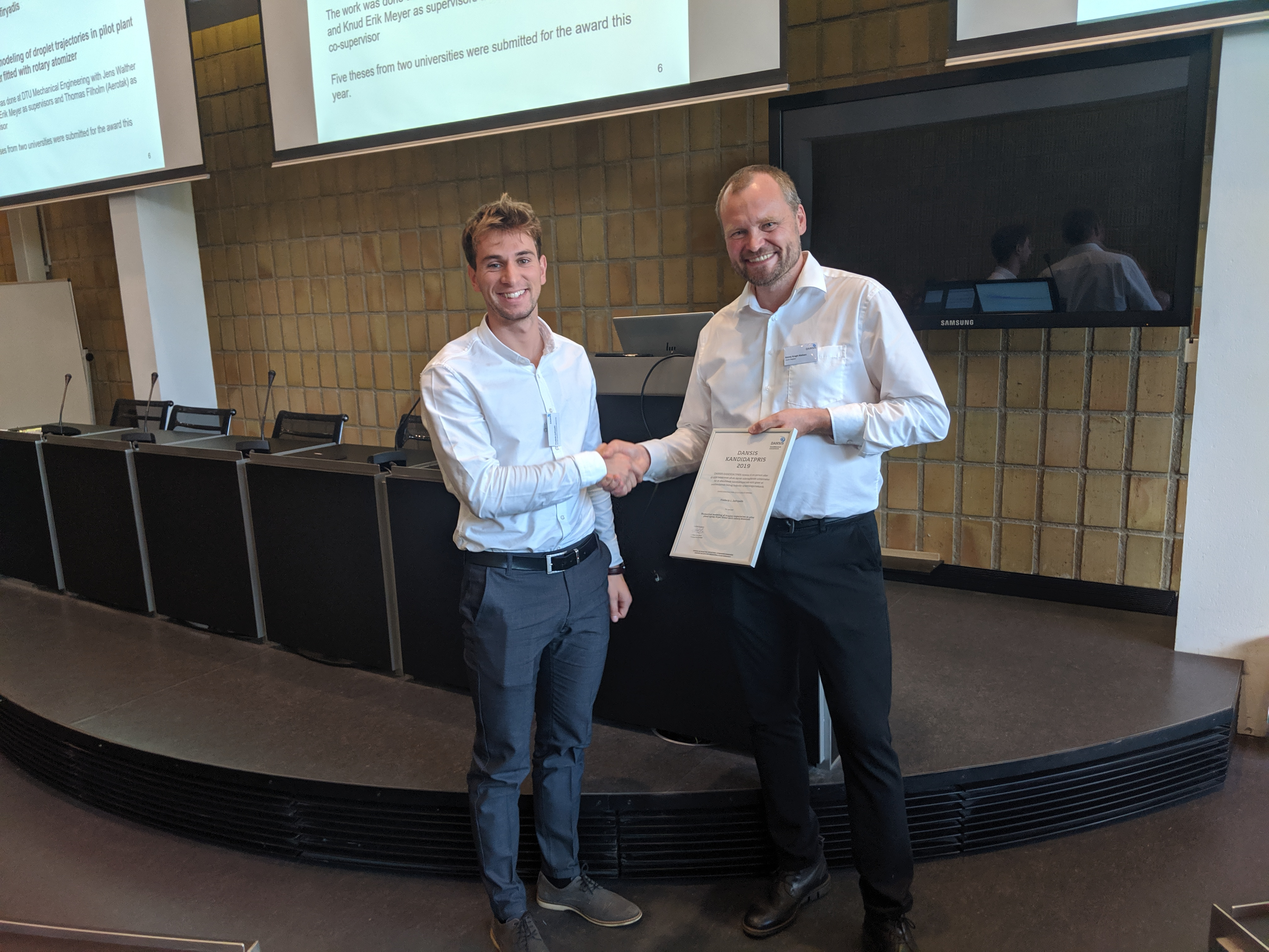
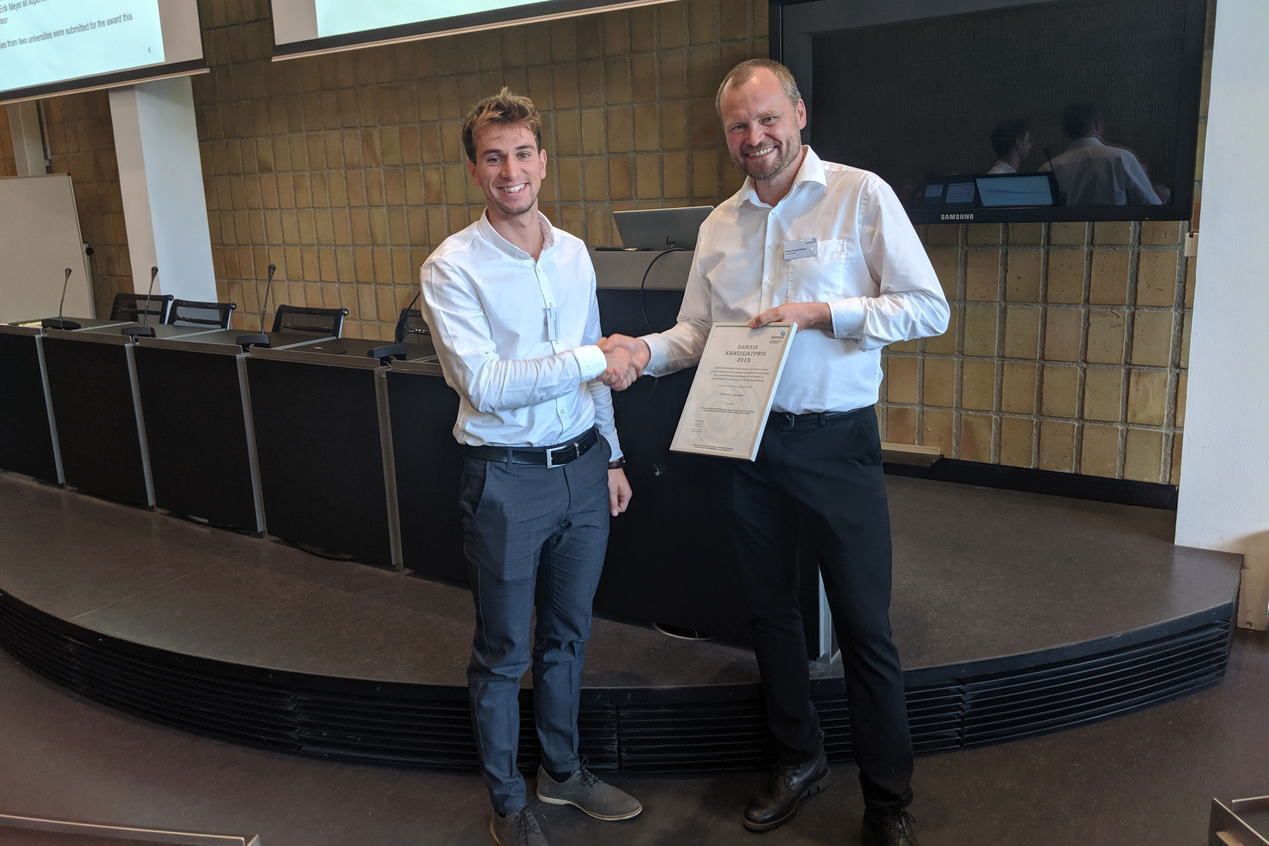
Update

diff --git a/_layouts/newsupdate.html b/_layouts/newsupdate.html
@@ -13,7 +13,7 @@ layout: default
         <h3 class="content">Date:&nbsp;&nbsp;&nbsp;&nbsp;&nbsp;&nbsp;&nbsp;&nbsp;{{ page.date | date: '%d' | plus:'0'}} {{ page.date | date: '%B %Y' }}</h3>
         {% if page.image %}
         <div class="newsupdate-image">
-            <img width="550" alt="{{ page.title }}" class="img-fluid mb-2" src="{{ page.image | relative_url }}" />
+            <img width="600" alt="{{ page.title }}" class="img-fluid mb-2" src="{{ page.image | relative_url }}" />
         </div>
         {% endif %}
         <div class="content">{{content}}</div>

diff --git a/_layouts/home.html b/_layouts/home.html
@@ -31,7 +31,7 @@ bodyClass: "page-home"
         <div class="newsupdate newsupdate-summary newsupdate-summary-large">
             {% if newsupdate.image %}
             <div class="newsupdate-image">
-                <img width="550" alt="{{ newsupdate.title }}" class="img-fluid mb-2" src="{{ newsupdate.image | relative_url }}" />
+                <img width="550" height="367" alt="{{ newsupdate.title }}" class="img-fluid mb-2" src="{{ newsupdate.image | relative_url }}" />
             </div>
             {% endif %}
             <div class="newsupdate-meta">
